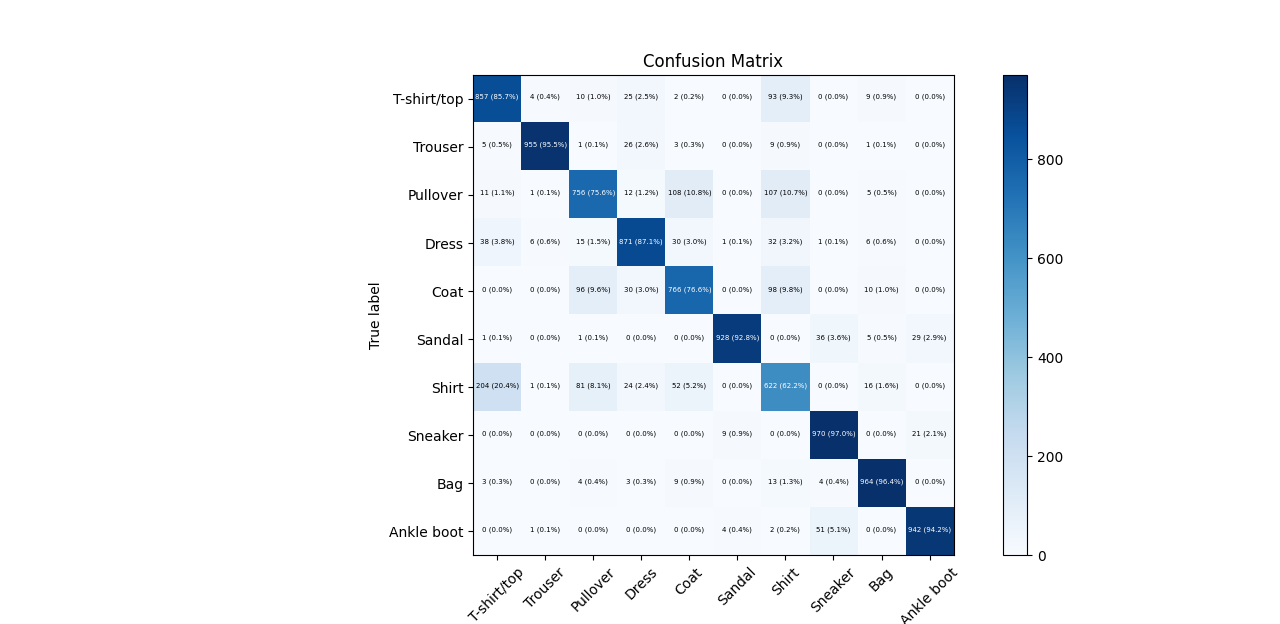
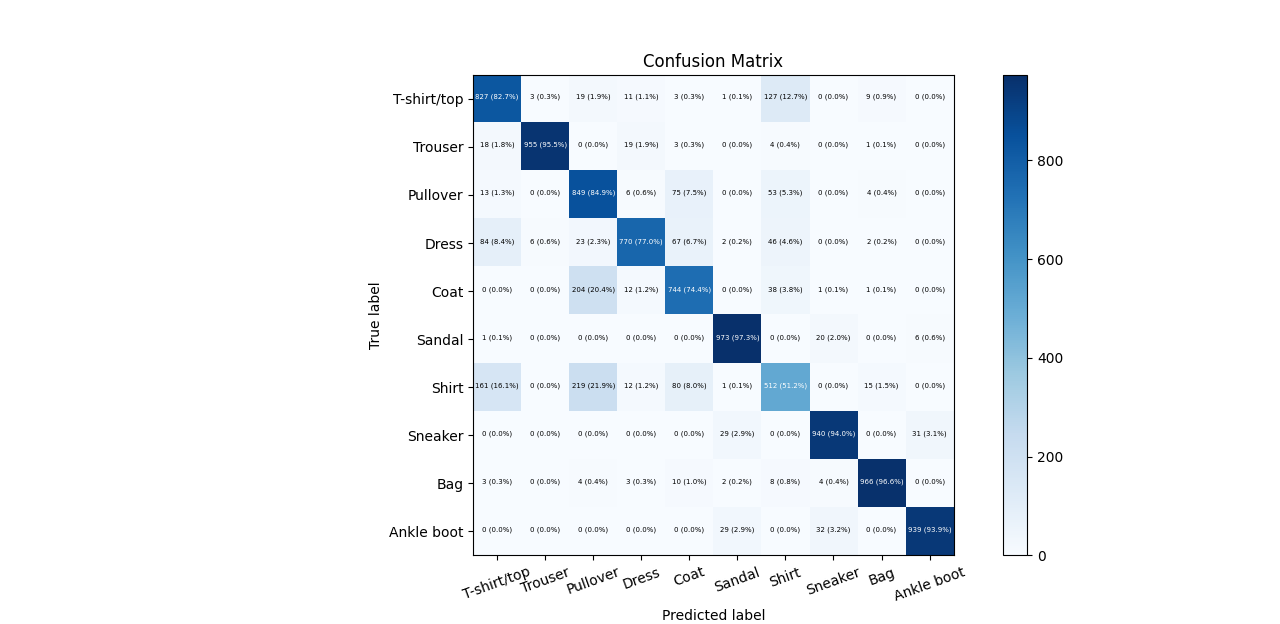
add neural network classification.py

diff --git a/neural network classification.py b/neural network classification.py
@@ -73,7 +73,7 @@ def make_confusion_matrix(y_true, y_pred, classes=None, figsize=(10, 10), text_s
   ax.xaxis.set_label_position("bottom")
   ax.xaxis.tick_bottom()
   
-  plt.xticks(rotation=45)
+  plt.xticks(rotation=20)
 
   threshold = (cm.max() + cm.min()) / 2. #計算閾值
 
